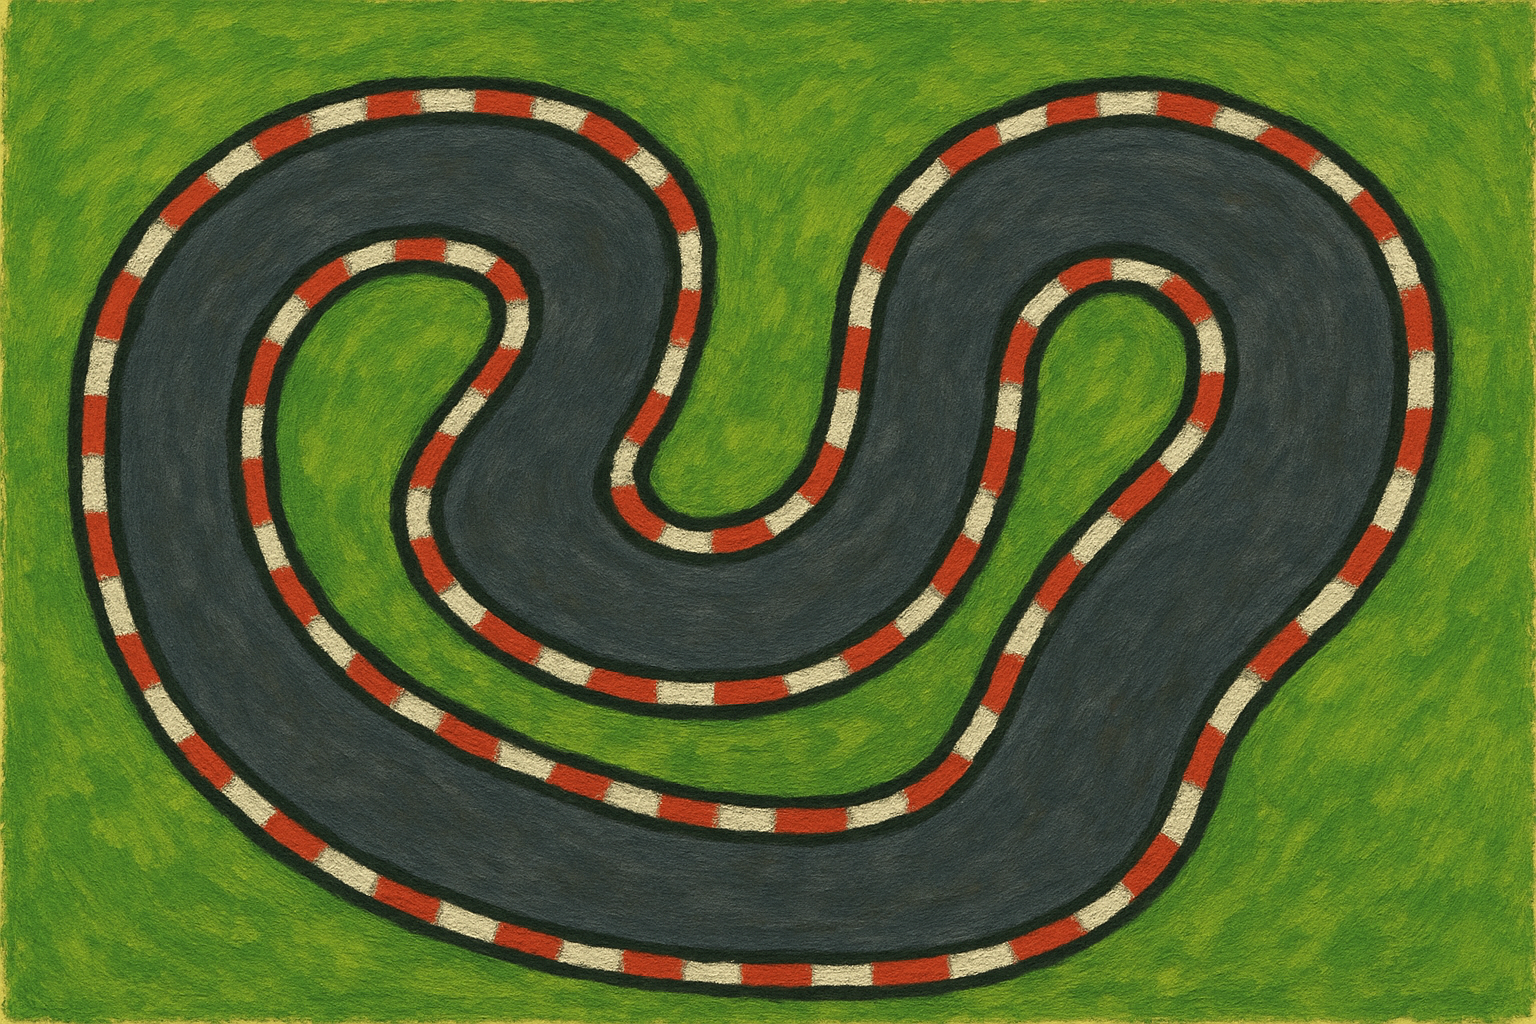
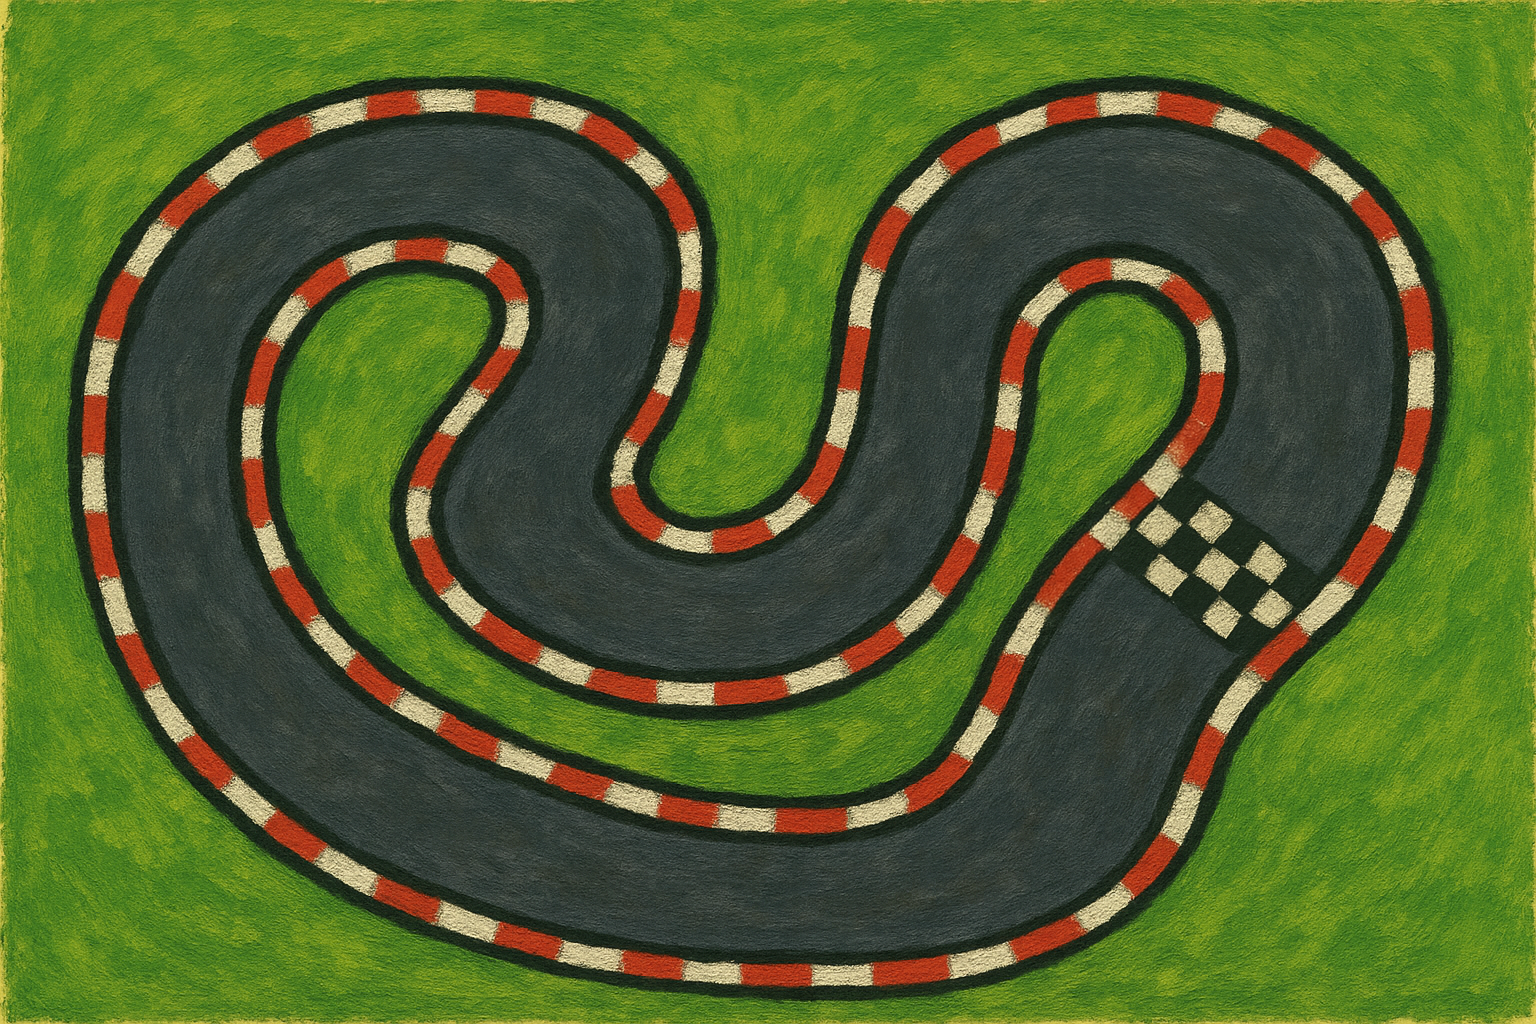
Add anti-cheat checkpoint system + fix AI speed + proper start positions
🏁 Race Improvements:
- Slow down AI players (reduced max speed and acceleration)
- Move all players to start at bottom of S-track (proper start/finish line)

🛡 Anti-Cheat System:
- Add 4 checkpoints around the S-track that must be hit in order
- Players must pass all checkpoints before lap counts
- No more cutting corners or cheating shortcuts!
- Visual checkpoint indicators (green=passed, yellow=next, white=upcoming)

🎮 Better Racing:
- Proper lap counting based on checkpoint progression
- Fair position calculation using lap + checkpoint progress
- Start/finish line moved to bottom of track

🤖 Generated with Claude Code

diff --git a/game.js b/game.js
@@ -29,6 +29,14 @@ class GoKartsGame {
         this.raceStartTime = 0;
         this.raceFinished = false;
         
+        // Checkpoint system for your S-track
+        this.checkpoints = [
+            { x: 400, y: 200, radius: 80 },   // Top of first curve
+            { x: 800, y: 400, radius: 80 },   // Middle right section
+            { x: 600, y: 600, radius: 80 },   // Bottom curve
+            { x: 200, y: 500, radius: 80 }    // Left side returning to start
+        ];
+        
         // Leaderboard data (stored locally for now)
         this.leaderboard = this.loadLeaderboard();
         
@@ -134,13 +142,13 @@ class GoKartsGame {
         // Create 5 players (including local player)
         this.players = [];
         
-        // Starting positions at the start/finish line
+        // Starting positions at the start/finish line (bottom of your S-track)
         const startPositions = [
-            { x: 150, y: 180 },
-            { x: 150, y: 200 },
-            { x: 150, y: 220 },
-            { x: 130, y: 190 },
-            { x: 130, y: 210 }
+            { x: 200, y: 680 },  // Front row center
+            { x: 180, y: 660 },  // Front row left
+            { x: 220, y: 660 },  // Front row right
+            { x: 160, y: 640 },  // Back row left
+            { x: 240, y: 640 }   // Back row right
         ];
         
         // Local player (always player 1)
@@ -160,7 +168,9 @@ class GoKartsGame {
             lapCount: 1,
             position: 1,
             isLocal: true,
-            image: this.playerImages[0]
+            image: this.playerImages[0],
+            checkpointsPassed: [],
+            lastCheckpoint: -1
         };
         this.players.push(this.localPlayer);
         
@@ -174,8 +184,8 @@ class GoKartsGame {
                 angle: 0,
                 velocity: { x: 0, y: 0 },
                 speed: 0,
-                maxSpeed: 4 + Math.random(),
-                acceleration: 0.25 + Math.random() * 0.1,
+                maxSpeed: 3 + Math.random() * 0.5,
+                acceleration: 0.2 + Math.random() * 0.05,
                 deceleration: 0.5,
                 friction: 0.85,
                 turnSpeed: 0.06 + Math.random() * 0.02,
@@ -183,7 +193,9 @@ class GoKartsGame {
                 position: i + 1,
                 isLocal: false,
                 image: this.playerImages[i],
-                aiTarget: { x: 300, y: 150 } // First turn target
+                aiTarget: { x: 300, y: 150 }, // First turn target
+                checkpointsPassed: [],
+                lastCheckpoint: -1
             });
         }
         
@@ -210,6 +222,9 @@ class GoKartsGame {
                 this.updateAIPlayer(player);
             }
         });
+        
+        // Update checkpoints
+        this.updateCheckpoints();
         
         // Update race positions
         this.updateRacePositions();
@@ -302,29 +317,65 @@ class GoKartsGame {
         player.speed = Math.min(player.speed + player.acceleration, player.maxSpeed);
     }
     
-    updateRacePositions() {
-        // Simple position calculation based on distance traveled
+    updateCheckpoints() {
         this.players.forEach(player => {
-            player.distanceTraveled = player.x + (player.lapCount - 1) * 1000;
+            this.checkpoints.forEach((checkpoint, index) => {
+                const dx = player.x - checkpoint.x;
+                const dy = player.y - checkpoint.y;
+                const distance = Math.sqrt(dx * dx + dy * dy);
+                
+                if (distance < checkpoint.radius) {
+                    // Check if this is the next checkpoint in sequence
+                    const expectedNext = (player.lastCheckpoint + 1) % this.checkpoints.length;
+                    
+                    if (index === expectedNext && !player.checkpointsPassed.includes(index)) {
+                        player.checkpointsPassed.push(index);
+                        player.lastCheckpoint = index;
+                        
+                        // If completed all checkpoints, ready for lap completion
+                        if (player.checkpointsPassed.length === this.checkpoints.length) {
+                            player.readyForLap = true;
+                        }
+                    }
+                }
+            });
+        });
+    }
+    
+    updateRacePositions() {
+        // Calculate position based on laps and checkpoints
+        this.players.forEach(player => {
+            const lapProgress = player.lapCount - 1;
+            const checkpointProgress = player.checkpointsPassed.length / this.checkpoints.length;
+            player.raceProgress = lapProgress + checkpointProgress;
         });
         
-        // Sort by distance and assign positions
-        const sortedPlayers = [...this.players].sort((a, b) => b.distanceTraveled - a.distanceTraveled);
+        // Sort by race progress and assign positions
+        const sortedPlayers = [...this.players].sort((a, b) => b.raceProgress - a.raceProgress);
         sortedPlayers.forEach((player, index) => {
             player.position = index + 1;
         });
     }
     
     checkRaceCompletion() {
-        // Simple lap detection - if player crosses right side of screen, increment lap
+        // Check if players cross start/finish line with all checkpoints completed
         this.players.forEach(player => {
-            if (player.x > this.canvas.width - 50 && player.lastX < this.canvas.width - 100) {
+            // Start/finish line area (bottom of track)
+            const startFinishArea = { x: 200, y: 680, radius: 60 };
+            const dx = player.x - startFinishArea.x;
+            const dy = player.y - startFinishArea.y;
+            const distance = Math.sqrt(dx * dx + dy * dy);
+            
+            if (distance < startFinishArea.radius && player.readyForLap) {
                 player.lapCount++;
+                player.checkpointsPassed = []; // Reset checkpoints for next lap
+                player.lastCheckpoint = -1;
+                player.readyForLap = false;
+                
                 if (player.lapCount > this.maxLaps && !this.raceFinished) {
                     this.finishRace(player);
                 }
             }
-            player.lastX = player.x;
         });
     }
     
@@ -394,6 +445,9 @@ class GoKartsGame {
         // Draw track (custom image or fallback)
         this.drawTrack();
         
+        // Draw checkpoints
+        this.drawCheckpoints();
+        
         // Draw players
         this.players.forEach(player => {
             this.drawPlayer(player);
@@ -449,15 +503,49 @@ class GoKartsGame {
     }
     
     drawStartFinishLine() {
-        // Start/finish line
+        // Start/finish line at bottom of track
         this.ctx.strokeStyle = '#ffd700';
         this.ctx.lineWidth = 8;
         this.ctx.setLineDash([15, 15]);
         this.ctx.beginPath();
-        this.ctx.moveTo(80, 150);
-        this.ctx.lineTo(120, 250);
+        this.ctx.moveTo(160, 680);
+        this.ctx.lineTo(240, 680);
         this.ctx.stroke();
         this.ctx.setLineDash([]);
+    }
+    
+    drawCheckpoints() {
+        if (!this.localPlayer) return;
+        
+        this.checkpoints.forEach((checkpoint, index) => {
+            const passed = this.localPlayer.checkpointsPassed.includes(index);
+            const isNext = (this.localPlayer.lastCheckpoint + 1) % this.checkpoints.length === index;
+            
+            // Draw checkpoint circle
+            this.ctx.beginPath();
+            this.ctx.arc(checkpoint.x, checkpoint.y, checkpoint.radius, 0, Math.PI * 2);
+            
+            if (passed) {
+                this.ctx.fillStyle = 'rgba(0, 255, 0, 0.2)'; // Green if passed
+                this.ctx.strokeStyle = '#00ff00';
+            } else if (isNext) {
+                this.ctx.fillStyle = 'rgba(255, 255, 0, 0.3)'; // Yellow if next
+                this.ctx.strokeStyle = '#ffff00';
+            } else {
+                this.ctx.fillStyle = 'rgba(255, 255, 255, 0.1)'; // White if not reached
+                this.ctx.strokeStyle = '#ffffff';
+            }
+            
+            this.ctx.fill();
+            this.ctx.lineWidth = 3;
+            this.ctx.stroke();
+            
+            // Draw checkpoint number
+            this.ctx.fillStyle = 'white';
+            this.ctx.font = 'bold 20px Arial';
+            this.ctx.textAlign = 'center';
+            this.ctx.fillText(index + 1, checkpoint.x, checkpoint.y + 7);
+        });
     }
     
     drawPlayer(player) {
